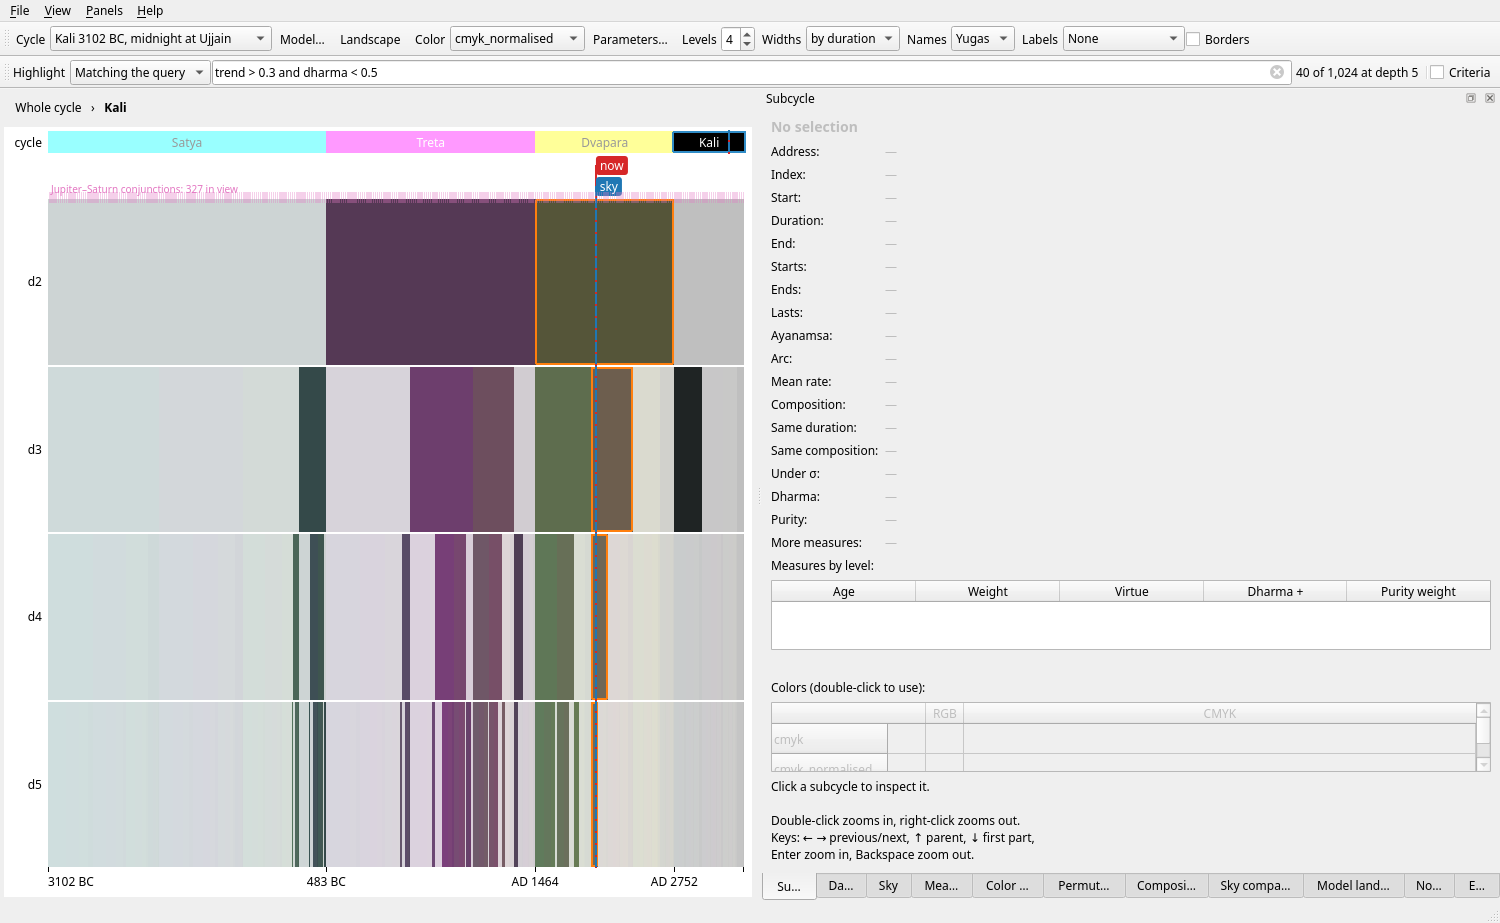
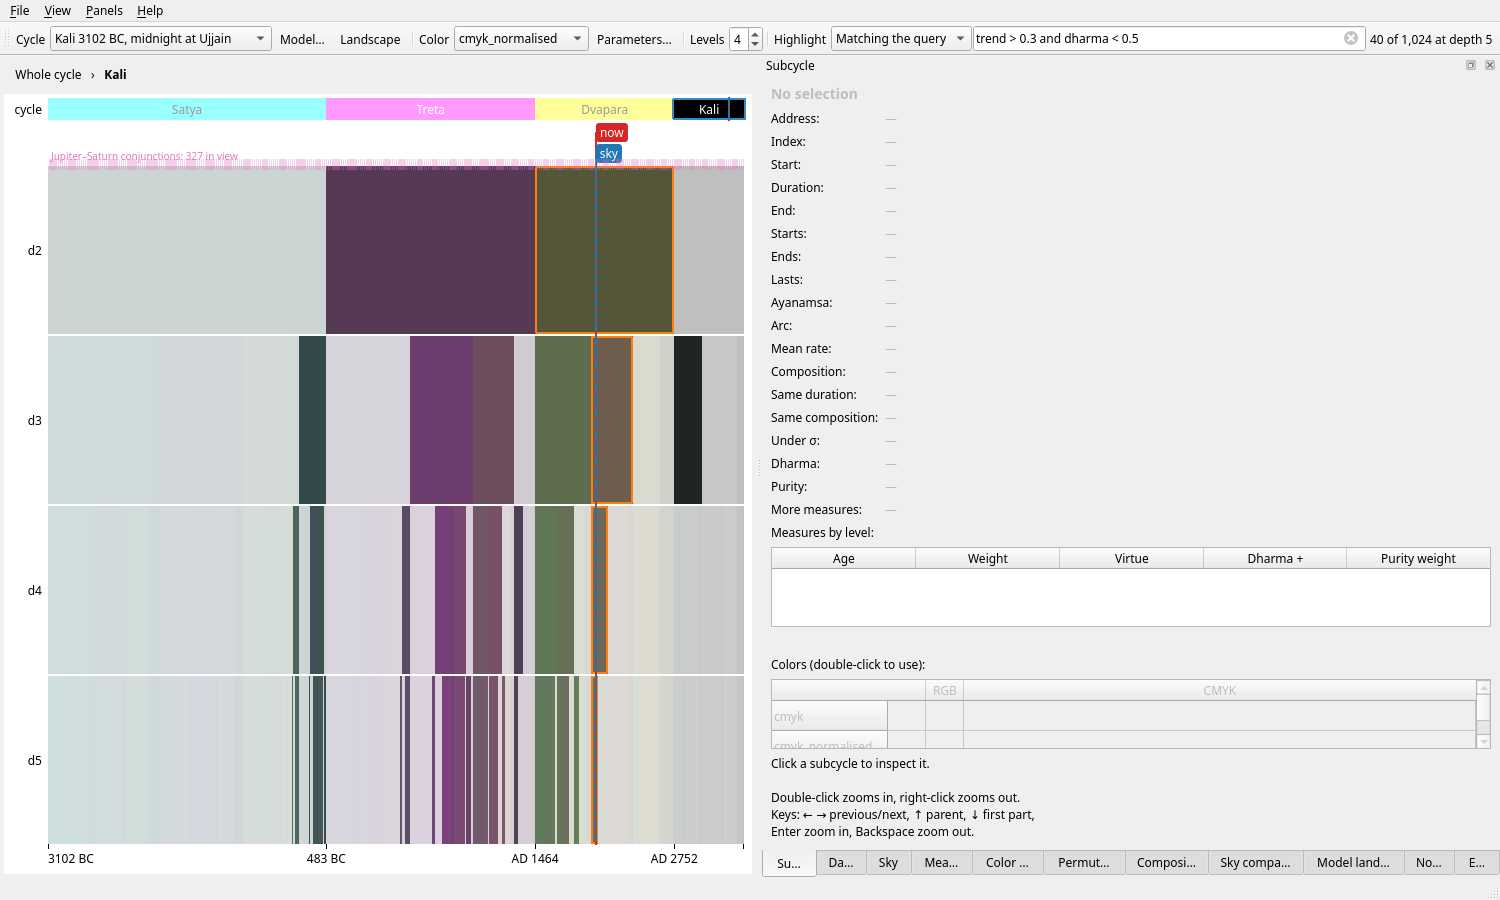
Move the drawing options to the View menu and keep the toolbar in one row grouped by topic

diff --git a/cycles/gui/app.py b/cycles/gui/app.py
@@ -3,7 +3,7 @@
 import sys
 
 from PySide6.QtCore import QSettings, Qt
-from PySide6.QtGui import QAction, QKeySequence
+from PySide6.QtGui import QAction, QActionGroup, QKeySequence
 from PySide6.QtWidgets import (
     QApplication, QCheckBox, QComboBox, QDockWidget, QLabel, QLineEdit, QMainWindow, QMessageBox, QSpinBox,
     QToolBar, QToolButton, QVBoxLayout, QWidget,
@@ -241,7 +241,8 @@ class MainWindow(QMainWindow):
         state.modelChanged.connect(self._fill_model_box)
         state.presetsChanged.connect(self._fill_model_box)
 
-        bar.addWidget(QLabel('  Color '))
+        bar.addSeparator()
+        bar.addWidget(QLabel(' Color '))
         self.color_box = QComboBox()
         # in groups: of the address, of a measure, of the cycle model
         for group in (LEVEL_COLOR_KEYS, MEASURE_COLOR_KEYS, MODEL_COLOR_KEYS, SKY_COLOR_KEYS):
@@ -261,7 +262,8 @@ class MainWindow(QMainWindow):
         color_button.clicked.connect(self.show_color_dialog)
         bar.addWidget(color_button)
 
-        bar.addWidget(QLabel('  Levels '))
+        bar.addSeparator()
+        bar.addWidget(QLabel(' Levels '))
         self.rows_box = QSpinBox()
         self.rows_box.setRange(1, 6)
         self.rows_box.setValue(state.rows)
@@ -269,42 +271,8 @@ class MainWindow(QMainWindow):
         self.rows_box.valueChanged.connect(state.set_rows)
         bar.addWidget(self.rows_box)
 
-        bar.addWidget(QLabel('  Widths '))
-        self.spacing_box = QComboBox()
-        self.spacing_box.addItem('by duration', 'time')
-        self.spacing_box.addItem('equal', 'index')
-        self.spacing_box.setToolTip('By duration: the horizontal axis is time. Equal: it is the index.')
-        self.spacing_box.currentIndexChanged.connect(
-            lambda i: state.set_spacing(self.spacing_box.itemData(i)))
-        bar.addWidget(self.spacing_box)
-
-        bar.addWidget(QLabel('  Names '))
-        self.names_box = QComboBox()
-        for label, names in NAME_SETS.items():
-            self.names_box.addItem(label, names)
-        self.names_box.currentIndexChanged.connect(lambda i: state.set_names(self.names_box.itemData(i)))
-        bar.addWidget(self.names_box)
-
-        bar.addWidget(QLabel('  Labels '))
-        self.labels_box = QComboBox()
-        for key, label in LABEL_MODES.items():
-            self.labels_box.addItem(label, key)
-        self.labels_box.setToolTip('Names (rotated in tall cells) and/or dots: 4 for Satya, 3 Treta, 2 Dvapara, '
-                                   '1 Kali')
-        self.labels_box.setCurrentIndex(self.labels_box.findData(state.labels))
-        self.labels_box.currentIndexChanged.connect(lambda i: state.set_labels(self.labels_box.itemData(i)))
-        bar.addWidget(self.labels_box)
-        self.borders_box = QCheckBox('Borders')
-        self.borders_box.setChecked(state.borders)
-        self.borders_box.toggled.connect(state.set_borders)
-        bar.addWidget(self.borders_box)
-
-        # a second row: what to highlight, the query, and the comparison of the division criteria
-        self.addToolBarBreak()
-        bar = QToolBar('Highlight')
-        bar.setObjectName('highlight')
-        self.addToolBar(bar)
-        bar.addWidget(QLabel('Highlight '))
+        bar.addSeparator()
+        bar.addWidget(QLabel(' Highlight '))
         self.highlight_box = QComboBox()
         for key, label in HIGHLIGHTS.items():
             self.highlight_box.addItem(label, key)
@@ -318,22 +286,14 @@ class MainWindow(QMainWindow):
         self.query_edit = QLineEdit()
         self.query_edit.setPlaceholderText('query, e.g. trend > 0.3 and dharma < 0.5')
         self.query_edit.setClearButtonEnabled(True)
-        self.query_edit.setMinimumWidth(240)
+        self.query_edit.setMinimumWidth(260)
         self.query_edit.setToolTip(QUERY_HELP)
         self.query_edit.editingFinished.connect(self._apply_query)
         bar.addWidget(self.query_edit)
         self.query_info = QLabel()
         bar.addWidget(self.query_info)
-        bar.addSeparator()
         for signal in (state.viewChanged, state.selectionChanged, state.focusChanged, state.colorParametersChanged):
             signal.connect(self._show_query)
-        self.criteria_box = QCheckBox('Criteria')
-        self.criteria_box.setToolTip(
-            'Compare the two criteria for dividing the cycle, 4:3:2:1 of the precession arc and 4:3:2:1 of the '
-            'years:\nwhere the one that is not the model\'s division puts the boundaries (dashed), with the gap '
-            'shaded.\nThe tooltip of a subcycle gives the dates. Needs a cycle model.')
-        self.criteria_box.toggled.connect(state.set_compare_criteria)
-        bar.addWidget(self.criteria_box)
 
         state.viewChanged.connect(self._sync_toolbar)
 
@@ -424,15 +384,59 @@ class MainWindow(QMainWindow):
         self.color_box.setCurrentText(state.color_key)
         self.highlight_box.setCurrentIndex(self.highlight_box.findData(state.highlight))
         self.rows_box.setValue(state.rows)
-        self.spacing_box.setCurrentIndex(self.spacing_box.findData(state.spacing))
-        names = next((i for i in range(self.names_box.count())
-                      if tuple(self.names_box.itemData(i)) == tuple(state.names)), -1)
-        if names >= 0:
-            self.names_box.setCurrentIndex(names)
-        self.labels_box.setCurrentIndex(self.labels_box.findData(state.labels))
-        self.borders_box.setChecked(state.borders)
-        self.criteria_box.setChecked(state.compare_criteria)
+        self.spacing_actions[state.spacing].setChecked(True)
+        names = next((label for label, names in NAME_SETS.items() if tuple(names) == tuple(state.names)), None)
+        if names is not None:
+            self.names_actions[names].setChecked(True)
+        self.labels_actions[state.labels].setChecked(True)
+        self.borders_action.setChecked(state.borders)
+        self.criteria_action.setChecked(state.compare_criteria)
         self.sky_panel.follow.setChecked(state.follow)
+
+    def _build_view_options(self, menu) -> None:
+        """How the navigator draws the cycle: widths, names, labels, borders, the comparison of the criteria."""
+        state = self.state
+        menu.setToolTipsVisible(True)
+
+        def choices(title: str, options: dict, setter, tip: str = '') -> dict:
+            submenu = menu.addMenu(title)
+            submenu.setToolTipsVisible(True)
+            if tip:
+                submenu.menuAction().setToolTip(tip)
+            group = QActionGroup(self)
+            actions = {}
+            for key, (label, value) in options.items():
+                action = QAction(label, self, checkable=True)
+                if tip:
+                    action.setToolTip(tip)
+                action.toggled.connect(lambda on, value=value: setter(value) if on else None)
+                group.addAction(action)
+                submenu.addAction(action)
+                actions[key] = action
+            return actions
+
+        self.spacing_actions = choices('&Widths', {'time': ('By &duration', 'time'), 'index': ('&Equal', 'index')},
+                                       state.set_spacing, 'By duration: the horizontal axis is time. Equal: it is '
+                                                          'the index.')
+        self.names_actions = choices('&Names', {label: (f"&{label}", names) for label, names in NAME_SETS.items()},
+                                     state.set_names)
+        self.labels_actions = choices('&Labels', {key: (f"&{label}", key) for key, label in LABEL_MODES.items()},
+                                      state.set_labels, 'Names (rotated in tall cells) and/or dots: 4 for Satya, '
+                                                        '3 Treta, 2 Dvapara, 1 Kali')
+        self.borders_action = QAction('&Borders', self, checkable=True)
+        self.borders_action.setShortcut(QKeySequence('Ctrl+Shift+B'))
+        self.borders_action.setToolTip('A border round every cell')
+        self.borders_action.toggled.connect(state.set_borders)
+        menu.addAction(self.borders_action)
+        self.criteria_action = QAction('Compare the division &criteria', self, checkable=True)
+        self.criteria_action.setShortcut(QKeySequence('Ctrl+Shift+C'))
+        self.criteria_action.setToolTip(
+            'Compare the two criteria for dividing the cycle, 4:3:2:1 of the precession arc and 4:3:2:1 of the '
+            'years:\nwhere the one that is not the model\'s division puts the boundaries (dashed), with the gap '
+            'shaded.\nThe tooltip of a subcycle gives the dates. Needs a cycle model.')
+        self.criteria_action.toggled.connect(state.set_compare_criteria)
+        menu.addAction(self.criteria_action)
+        self._sync_toolbar()
 
     def _build_menus(self) -> None:
         file_menu = self.menuBar().addMenu('&File')
@@ -481,6 +485,8 @@ class MainWindow(QMainWindow):
         whole.setShortcut(QKeySequence('Ctrl+Home'))
         whole.triggered.connect(lambda: self.state.set_focus(()))
         view_menu.addAction(whole)
+        view_menu.addSeparator()
+        self._build_view_options(view_menu)
         view_menu.addSeparator()
         bookmark = QAction('&Bookmark the selection', self)
         bookmark.setShortcut(QKeySequence('Ctrl+B'))

diff --git a/tests/test_gui_session.py b/tests/test_gui_session.py
@@ -17,12 +17,12 @@ def _change_everything(window, spin):
                                ('magma', 'PuOr_r'))
     window.color_box.setCurrentIndex((window.color_box.currentIndex() + 1) % window.color_box.count())
     window.rows_box.setValue(4)
-    window.spacing_box.setCurrentIndex(window.spacing_box.findData('index'))
-    window.names_box.setCurrentIndex(1)
-    window.labels_box.setCurrentIndex(window.labels_box.findData('dots'))
-    window.borders_box.setChecked(True)
+    window.spacing_actions['index'].trigger()
+    window.names_actions['Ages'].trigger()
+    window.labels_actions['dots'].trigger()
+    window.borders_action.trigger()
     window.highlight_box.setCurrentIndex(window.highlight_box.findData('composition'))
-    window.criteria_box.setChecked(True)
+    window.criteria_action.setChecked(True)
     state.set_date(-1000.5)
     state.set_sky_time(-2500.25)
     state.set_focus((3, 1))
@@ -45,6 +45,11 @@ def _change_everything(window, spin):
     spin()
 
 
+def checked(actions: dict):
+    """The key of the checked action of a choice in the View menu."""
+    return next(key for key, action in actions.items() if action.isChecked())
+
+
 def _snapshot(window):
     state = window.state
     return {
@@ -59,8 +64,9 @@ def _snapshot(window):
         'camera': window.compositions_panel.camera(), 'notes': state.notes,
         'bookmarks': [dict(b) for b in state.bookmarks],
         'measures_open': not window.docks['measures'].isHidden(),
-        'toolbar': (window.rows_box.value(), window.spacing_box.currentData(), window.labels_box.currentData(),
-                    window.borders_box.isChecked(), window.criteria_box.isChecked(), window.names_box.currentIndex()),
+        'toolbar': (window.rows_box.value(), checked(window.spacing_actions), checked(window.labels_actions),
+                    window.borders_action.isChecked(), window.criteria_action.isChecked(),
+                    checked(window.names_actions)),
     }
 
 

diff --git a/tests/test_gui_highlight.py b/tests/test_gui_highlight.py
@@ -42,6 +42,30 @@ def test_the_toolbar_follows_the_state(window, selected, spin):
     assert selected.highlight_indices(selected.selection) is None
 
 
+def test_the_view_menu_draws_the_navigator(window, selected, spin):
+    from cycles.functions.timescale import AGE_NAMES
+    state = selected
+    window.spacing_actions['index'].trigger()
+    window.names_actions['Ages'].trigger()
+    window.labels_actions['both'].trigger()
+    window.borders_action.trigger()
+    window.criteria_action.trigger()
+    spin()
+    assert (state.spacing, state.names, state.labels, state.borders, state.compare_criteria) == \
+        ('index', AGE_NAMES, 'both', True, True)
+    # and the menu follows changes made elsewhere (a session)
+    state.set_spacing('time')
+    state.set_labels('none')
+    state.set_borders(False)
+    spin()
+    assert window.spacing_actions['time'].isChecked() and not window.spacing_actions['index'].isChecked()
+    assert window.labels_actions['none'].isChecked() and not window.borders_action.isChecked()
+    from PySide6.QtWidgets import QMenu
+    view = next(m for m in window.findChildren(QMenu) if m.title() == '&View')
+    assert {'&Widths', '&Names', '&Labels', '&Borders', 'Compare the division &criteria'} <= \
+        {a.text() for a in view.actions()}
+
+
 def test_the_measures_plot_rings_the_highlighted_class(window, selected, spin):
     window.docks['measures'].raise_()
     spin()

diff --git a/tests/test_gui_criteria_skycompare.py b/tests/test_gui_criteria_skycompare.py
@@ -33,7 +33,7 @@ def test_the_years_criterion_divides_the_years_4_3_2_1(window):
 def test_the_navigator_draws_the_other_criterion(window, spin):
     state = window.state
     navigator = window.navigator
-    window.criteria_box.setChecked(True)
+    window.criteria_action.setChecked(True)
     assert state.compare_criteria
     state.set_focus((3,))
     spin()
@@ -42,7 +42,7 @@ def test_the_navigator_draws_the_other_criterion(window, spin):
     assert navigator._criteria_shown == ['time']        # the default model divides by angle
     text = navigator.criteria_text((3, 2))
     assert text.startswith('\nBy 4:3:2:1 of the years: starts') and 'years)' in text
-    window.criteria_box.setChecked(False)
+    window.criteria_action.setChecked(False)
     spin()
     navigator.repaint()
     assert navigator._criteria_shown == [] and navigator.criteria_text((3, 2)) == ''

diff --git a/docs/es/markdown/12_aplicacion_grafica.md b/docs/es/markdown/12_aplicacion_grafica.md
@@ -36,8 +36,8 @@ criterio, y sus marcadores.
 
 ### La barra de herramientas
 
-La barra tiene dos filas: la primera elige el modelo y cómo se dibuja el ciclo; la segunda, qué se resalta (con la
-consulta) y la comparación de los criterios.
+La barra agrupa sus controles por tema, separados por líneas finas: el modelo de ciclo, el coloreado, los niveles
+y el resaltado.
 
 | Control | Qué elige |
 |---|---|
@@ -46,17 +46,26 @@ consulta) y la comparación de los criterios.
 | *Landscape* | abre el panel *Model landscape* |
 | *Color* y *Parameters…* | el coloreado (los veintiséis de `COLOR_KEYS`, en cuatro grupos: de la dirección, de las medidas, del modelo de ciclo y del cielo, con la descripción de cada uno al pasar por encima; los del modelo, en gris sin modelo, y los del cielo, también sin la efeméride del panel *Sky*) y sus parámetros (12.14) |
 | *Levels* | cuántas filas se dibujan bajo el zoom (1 a 6) |
+| *Highlight* | alrededor de la selección, los subciclos de su profundidad con la misma duración, la misma composición o su órbita bajo ⟨σ⟩ (con su imagen por σ en púrpura discontinuo); o, en todas las profundidades, los que cumplen la **consulta** (*Matching the query*, abajo); los demás se atenúan en el navegador y los resaltados se rodean en los gráficos |
+| consulta | la condición del resaltado *Matching the query*, y cuántos subciclos la cumplen |
+
+### El menú *View*
+
+Las opciones de dibujo que se fijan una vez están en el menú *View*, con una marca en la elegida:
+
+| Opción | Qué elige |
+|---|---|
 | *Widths* | anchura por duración (el eje es el tiempo) o igual para todos (el eje es el índice) |
 | *Names* | yugas (Satya…) o edades (Golden…) |
 | *Labels* | nombres (verticales en celdas altas y estrechas), puntos (4 Satya, 3 Treta, 2 Dvapara, 1 Kali), ambos o ninguno |
-| *Borders* | borde en cada celda |
-| *Highlight* (segunda fila) | alrededor de la selección, los subciclos de su profundidad con la misma duración, la misma composición o su órbita bajo ⟨σ⟩ (con su imagen por σ en púrpura discontinuo); o, en todas las profundidades, los que cumplen la **consulta** (*Matching the query*, abajo); los demás se atenúan en el navegador y los resaltados se rodean en los gráficos |
-| consulta (segunda fila) | la condición del resaltado *Matching the query*, y cuántos subciclos la cumplen |
-| *Criteria* (segunda fila) | dibuja dónde pondría las fronteras el criterio que no es la división del modelo (4:3:2:1 del arco o de los años): discontinuas, con el hueco hasta la frontera propia sombreado, en las filas cuyas celdas tienen unos píxeles de ancho (capítulo 8) |
+| *Borders* (`Ctrl+Mayús+B`) | borde en cada celda |
+| *Compare the division criteria* (`Ctrl+Mayús+C`) | dibuja dónde pondría las fronteras el criterio que no es la división del modelo (4:3:2:1 del arco o de los años): discontinuas, con el hueco hasta la frontera propia sombreado, en las filas cuyas celdas tienen unos píxeles de ancho (capítulo 8) |
+
+El mismo menú tiene *Zoom out* (`Ctrl+↑`), *Whole cycle* (`Ctrl+Inicio`) y *Bookmark the selection* (`Ctrl+B`).
 
 ### Resaltar con una consulta
 
-El campo de la segunda fila de la barra admite una **condición** sobre los subciclos, como
+El campo de consulta de la barra admite una **condición** sobre los subciclos, como
 `trend > 0.3 and dharma < 0.5`. Con Intro se aplica y el resaltado pasa a *Matching the query*: en cada fila
 del navegador quedan vivos los subciclos que la cumplen y los demás se atenúan; en los paneles *Measures* y *Color
 space* se rodean, a la profundidad que muestren. Al lado se lee cuántos la cumplen a la profundidad de la
@@ -416,6 +425,7 @@ modelo y los colores que se ven), y muestra su salida. *Open plots folder* abre 
 | `Ctrl+D` | dosier del subciclo |
 | `Ctrl+T` | estudios |
 | `Ctrl+B` | marcar la selección |
+| `Ctrl+Mayús+B` / `Ctrl+Mayús+C` | bordes de las celdas / comparar los criterios de división |
 | `Ctrl+↑` / `Ctrl+Inicio` | reducir el zoom / todo el ciclo |
 | `Alt+1` … `Alt+9`, `Alt+0` | mostrar u ocultar cada panel |
 | `Ctrl+Alt+T/S/V/G/B` | disposiciones: pestañas, lado a lado, apilados, rejilla, debajo |

diff --git a/CHANGELOG.md b/CHANGELOG.md
@@ -72,6 +72,9 @@ Planetary events and significance tests.
   time map and the ayanamsa are interpolated on a fine grid (`cycle_analysis.dense_years`, `dense_ayanamsa`; well
   under a day), and the inspector computes the measures of the sky for the selected subcycle alone. The group
   explorer lists up to S_8.
+- **A tidier toolbar**: one row, grouped by topic with separators (the cycle model; the coloring; the levels; the
+  highlight and the query). The drawing options set once moved to the *View* menu as checkable items: *Widths*,
+  *Names*, *Labels*, *Borders* (`Ctrl+Shift+B`) and *Compare the division criteria* (`Ctrl+Shift+C`).
 - **Tests in parallel**: `pytest-xdist` in the `test` extra; `pytest -n 8` runs the suite in under a minute instead
   of nine.
 - **README**: a short introduction with installation, a quick start, the chapters of the documentation and the

diff --git a/docs/es/markdown/08_modelo_de_ciclo.md b/docs/es/markdown/08_modelo_de_ciclo.md
@@ -105,7 +105,7 @@ cuadrática media.
 | Cuadrática media | 0,0051 | 0,0023 | 0,0012 | 0,0004 | 0,0001 |
 
 Dentro de los yugas la desviación se reduce con la profundidad: los subciclos son cortos frente a la variación
-de la tasa. En el explorador, el conmutador *Criteria* del navegador dibuja dónde pone las fronteras el otro
+de la tasa. En el explorador, *View → Compare the division criteria* dibuja dónde pone las fronteras el otro
 criterio (capítulo 12): las de los yugas difieren hasta unos 300 años; dentro del Kali, por ejemplo, Kali ›
 Dvapara empezaría 6,4 años antes dividiendo los años.
 
